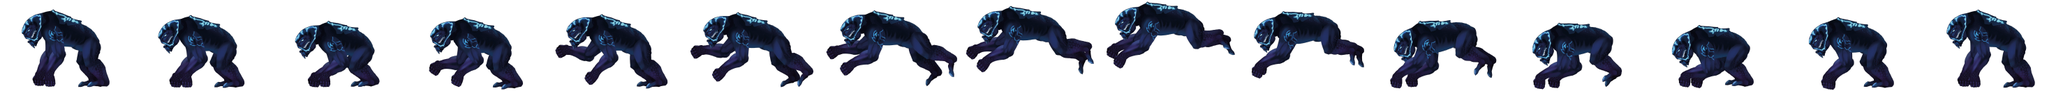
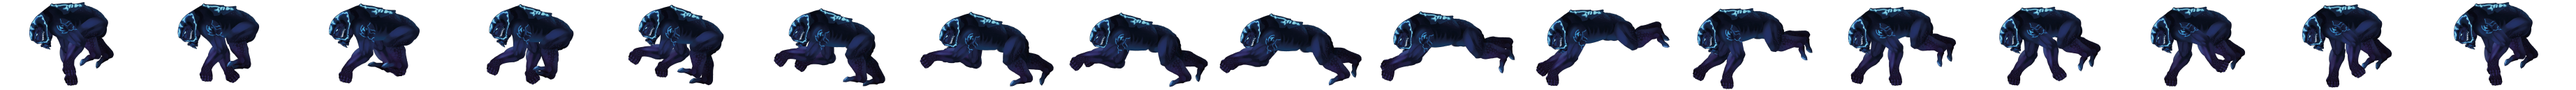
Se organizan las velocidades de los diferentes items que aparecen en la escena, ya que todos quedaron funcionando con el advance, algunos se movian mas lento y otros mas rapido. Se crea una funcion para mostrar el letrero de cambio de nivel.

diff --git a/proyectoInformatica/mundoterrestre.cpp b/proyectoInformatica/mundoterrestre.cpp
@@ -1,8 +1,17 @@
 #include "mundoterrestre.h"
+#include <QSplashScreen>
+#include <QTime>
+#include <QDesktopWidget>
+#include <QCoreApplication>
+#include <QStyle>
+#include <QScreen>
+#include <QApplication>
+
 
 mundoTerrestre::mundoTerrestre(QString userName)
 {
-
+    QRect GeometryScreen = QApplication::desktop()->screenGeometry();
+    vista->move(GeometryScreen.width()-vista->width()/3,GeometryScreen.height()-vista->height()/3);
     /*
     sección de información para el nivel y el usuario en partida
     */
@@ -66,7 +75,7 @@ mundoTerrestre::mundoTerrestre(QString userName)
     connect(generadorNaves,SIGNAL(timeout()),this,SLOT(actualizar()));
     generadorNaves->start(1);
 
-    fondos[0]="border-image: url(:/multimedia/Backgrounds/BG apocalyptic 1.jpg";
+    fondos[0]="border-image: url(:/multimedia/Backgrounds/BG apocalyptic 1.jpg)";
     fondos[1]="border-image: url(:/multimedia/Backgrounds/BG apocalyptic 2.jpg)";
     fondos[2]="border-image: url(:/multimedia/Backgrounds/BG apocalyptic 3.jpg)";
     fondos[3]="border-image: url(:/multimedia/Backgrounds/BG alien 2.jpg)";
@@ -75,12 +84,12 @@ mundoTerrestre::mundoTerrestre(QString userName)
 
 void mundoTerrestre::iniciarMundo()
 {
-    for(unsigned short int a=0 ;a<(sizeof(fondos)/sizeof(fondos[0])); a++){
-        if(0+ rand() % (sizeof(fondos)/sizeof(fondos[0])-1)==a){
+    for(unsigned short int a=0 ;a<(sizeof(fondos)/sizeof(fondos[0]))-1; a++){
+        if(0+ rand() % (sizeof(fondos)/sizeof(fondos[0]))-1==a){
             vista->setStyleSheet(fondos[a]);
         }
     }
-    ticks->start(50);
+    ticks->start(80);
 }
 
 
@@ -225,7 +234,26 @@ void mundoTerrestre::ticksMundo()
             }
             //generadorNubes->stop();
         }
+        if(tiempoJuego->getTime() == 3){
+            vista->setStyleSheet("border-image: url(:/multimedia/next level.png)");
+        }
         if(tiempoJuego->getTime()==0){
+
+            /*
+            QSplashScreen *splash = new QSplashScreen;
+            splash->setPixmap(QPixmap(":/multimedia/next level.png"));
+            QTimer::singleShot(3000,splash,SLOT(close()));
+            splash->show();
+
+
+            QTime dieTime= QTime::currentTime().addSecs(3);
+            while (QTime::currentTime() < dieTime){
+                QCoreApplication::processEvents(QEventLoop::AllEvents, 100);
+            }
+            */
+            //vista->setGeometry(QStyle::alignedRect(Qt::LeftToRight,Qt::AlignCenter,vista->size()));
+            //personajePrincipal->setFlag(QGraphicsItem::ItemIsFocusable);
+            //personajePrincipal->setFocus();
             this->actualizar_nivel();
         }
     }
@@ -319,7 +347,7 @@ void mundoTerrestre::createShips()
     /*for(unsigned short int a =0 ; a < 4;a++){
         sistema.append(new Planeta(1+rand()%10,1+rand()%10,3000+rand()%5000,1+rand()%100));
     }
-    /*
+
     short int opcion = 1+rand()%2;
 
     if(opcion == 1){

diff --git a/proyectoInformatica/personaje.cpp b/proyectoInformatica/personaje.cpp
@@ -40,8 +40,6 @@ void personaje::setState(std::string estado)
     }
 }
 
-
-
 QRectF personaje::boundingRect() const
 {
     return QRectF(-ancho/2,-alto/2,ancho,alto);
@@ -102,15 +100,12 @@ personaje::personaje():movimientos(550){
     this->fila = 0;
     this->columna = 0;
     this->vida_disponible=100;
-    this->pointer_pause=pointer_pause;
+    this->pointer_pause=false;
     sonido->setVolume(30);
     pixPersonaje = new QPixmap(":/multimedia/personaje/playerSprite.png");
     setState("stand");
 
 }
-
-
-
 
 // función del keypressEvent
 /*
@@ -194,7 +189,6 @@ void personaje::keyPressEvent(QKeyEvent *event)
             setState("jump");
         }
 
-
         if(event->key() == Qt::Key_Space){
             stateShoot = true;
             columna = 0;
@@ -229,7 +223,6 @@ void personaje::keyPressEvent(QKeyEvent *event)
                 setState("attack");
             }
         }
-
 
         if(event->key() == Qt::Key_S){
             stateShoot = true;
@@ -364,5 +357,6 @@ void personaje::advance(int phase)
         stateKatana= false;
     }
     this->update(-ancho/2,-alto/2,ancho,alto);
+    Q_UNUSED(phase);
 }
 

diff --git a/proyectoInformatica/enemigo.cpp b/proyectoInformatica/enemigo.cpp
@@ -17,7 +17,7 @@ enemigo::enemigo(qreal *lastPosition):movimientos(560)
 
     // inicialización de atributos
     this->last_position=lastPosition;
-    this->velocidad_dezplazamiento=3+rand()%6;
+    this->velocidad_dezplazamiento=5+rand()%10;
 
     // llamado a metodos para personalizar el objeto creado
     // se asignará a travez de argumentos variaciones para este objeto
@@ -93,6 +93,7 @@ void enemigo::advance(int phase)
 
     cambiarAnimacion(); // FIJA
     //qDebug()<< *last_position << "pos at <--";
+    Q_UNUSED(phase);
 }
 
 
@@ -207,11 +208,11 @@ void enemigo::asignarCaracteristicas()
 
     else if(aleatorio == 7){
         //Alien 4 saltando (tipo kong estraterrestre)
-        this->ancho = 197;
-        this->alto = 131;
-        this->columnas = 2955;
+        this->ancho = 217;
+        this->alto = 130;
+        this->columnas = 3689;
         this->direction = false;
-        this->limite = 2955;
+        this->limite = 3689;
 
         pixmap_zombie = new QPixmap(":/multimedia/aliens/Alien4Jump.png");
     }

diff --git a/proyectoInformatica/cliente.cpp b/proyectoInformatica/cliente.cpp
@@ -1,6 +1,8 @@
 #include "cliente.h"
 #include "ui_cliente.h"
 #include <mundoterrestre.h>
+#include <QSplashScreen>
+
 
 cliente::cliente(QWidget *parent) :
     QWidget(parent),
@@ -49,12 +51,23 @@ void cliente::on_pushButton_2_clicked()
 void cliente::on_info_send_clicked()
 {
     if(mode_cliente=="wait_for_game"){
+
+        QSplashScreen *splash = new QSplashScreen;
+        splash->setPixmap(QPixmap(":/multimedia/splash.png"));
+        QTimer::singleShot(3000,splash,SLOT(close()));
+        this->close();
+        splash->show();
+
+        QTime dieTime= QTime::currentTime().addSecs(3);
+        while (QTime::currentTime() < dieTime){
+            QCoreApplication::processEvents(QEventLoop::AllEvents, 100);
+        }
+
         // capturaremos el nombre y haremos comprobaciones
         QString userRead = ui->info_text->toPlainText();
         ui->info_text->clear();
         mundoTerrestre  *mundo;
         mundo = new mundoTerrestre(userRead);
-        this->close();
         mundo->iniciarMundo();
     }
 }

diff --git a/proyectoInformatica/asteroides.cpp b/proyectoInformatica/asteroides.cpp
@@ -30,7 +30,7 @@ asteroides::asteroides(qreal x, qreal y)
     this->setTransformOriginPoint(this->boundingRect().center());
     this->setScale(1.5);
     this->rotationAngle = 0;
-    this->velocidad_caida=8;
+    this->velocidad_caida=15;
     this->fire = true;
 }
 
@@ -97,7 +97,7 @@ void asteroides::advance(int phase)
                 break;
             }
     }
-
+    Q_UNUSED(phase);
 }
 
 
@@ -128,7 +128,7 @@ void asteroides::generarAleatoriedad()
     // alta resolución en la generación de semilla.
     long long semilla = std::chrono::high_resolution_clock::now().time_since_epoch().count();
     srand((unsigned int )semilla);
-    this->velocidad_caida=5+rand()%15;
+    this->velocidad_caida=15+rand()%25;
     this->setTransformOriginPoint(this->boundingRect().center());
     setPos(1+rand()%1200,-1800 + ((1+rand()%500)*-1));
 

diff --git a/proyectoInformatica/proyectil.cpp b/proyectoInformatica/proyectil.cpp
@@ -21,24 +21,18 @@ proyectil::~proyectil()
 }
 
 
-
-
-
 void proyectil::advance(int phase)
 {
     if(direccion){
-        setPos(x()+10,y());
+        setPos(x()+25,y());
     }
     else{
-        setPos(x()-10,y());
+        setPos(x()-25,y());
     }
 
     if(pos().x()>1300 + this->boundingRect().width() or pos().x() < 0 ){
         delete this;
     }
-
-
-
 
 
     QList<QGraphicsItem *> elementosColisionables  = collidingItems() ;

diff --git a/proyectoInformatica/main.cpp b/proyectoInformatica/main.cpp
@@ -7,12 +7,15 @@
 #include <QDebug>
 #include <mundoterrestre.h>
 #include <cliente.h>
+#include <QIcon>
 
 bool playing = false;
 
 int main(int argc, char *argv[])
 {
     QApplication a(argc, argv);
+
+    a.setWindowIcon(QIcon(":/multimedia/icon.png"));
 
     //MenuInicio *inicio = new MenuInicio();
     //inicio->show();

diff --git a/proyectoInformatica/personaje.h b/proyectoInformatica/personaje.h
@@ -38,7 +38,6 @@ public:
     personaje();
     void keyPressEvent(QKeyEvent *event);
     qreal getLastPosition();
-    void eventHandler();
     short getDisparos_disponibles() const;
     void setState(std::string estado);
     QRectF boundingRect() const;

diff --git a/proyectoInformatica/mundoterrestre.h b/proyectoInformatica/mundoterrestre.h
@@ -69,7 +69,7 @@ public:
     short int tiempo_nubes;
     short int tiempo_luna;
     qreal globar_position , *gp;
-    const char *fondos[6];
+    const char *fondos[5];
 
 
     /*

diff --git a/proyectoInformatica/enemigoGigante.cpp b/proyectoInformatica/enemigoGigante.cpp
@@ -33,6 +33,7 @@ void enemigoGigante::advance(int phase)
         setPos(pos().x()+15,pos().y());
     }
     cambiarAnimacion();
+    Q_UNUSED(phase);
 }
 
 

diff --git a/proyectoInformatica/nubes.cpp b/proyectoInformatica/nubes.cpp
@@ -59,4 +59,5 @@ void nubes::advance(int phase)
     if(pos().x()<-900 || pos().x() > 1500){
         delete this;
     }
+    Q_UNUSED(phase);
 }

diff --git a/proyectoInformatica/cliente.h b/proyectoInformatica/cliente.h
@@ -2,6 +2,7 @@
 #define CLIENTE_H
 
 #include <QWidget>
+#include <QTime>
 
 namespace Ui {
 class cliente;
